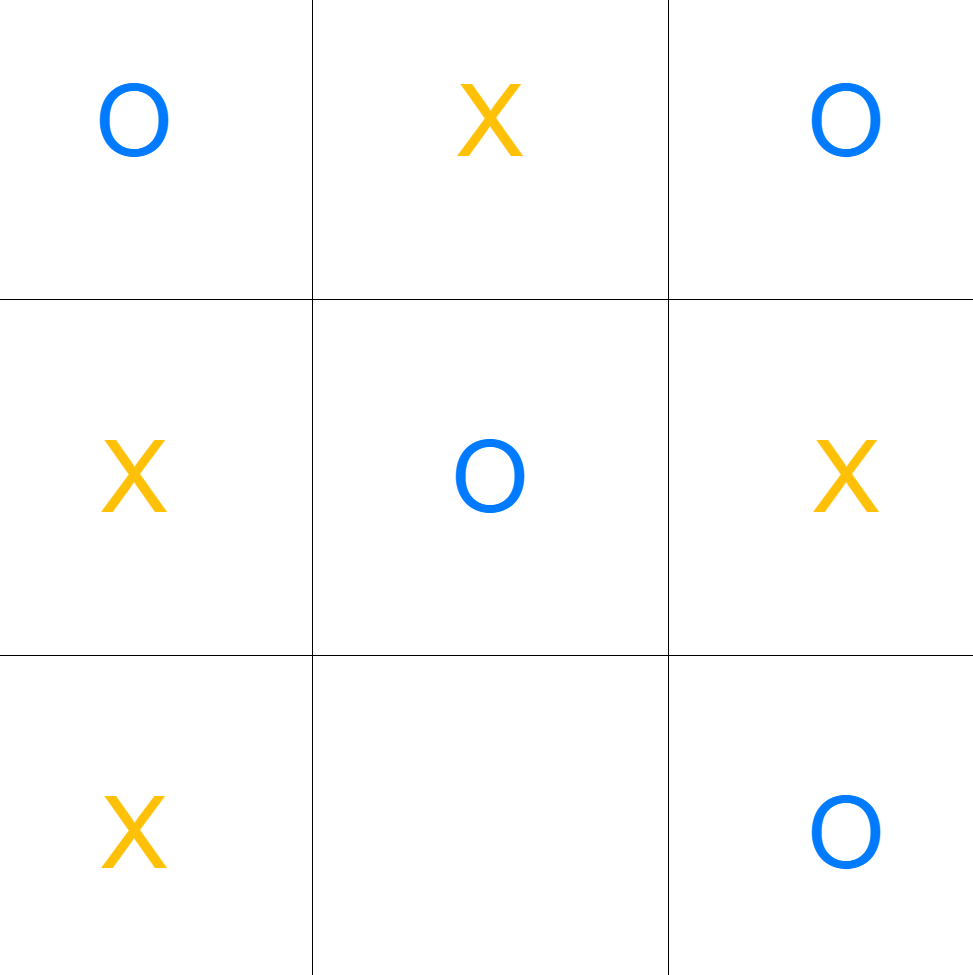
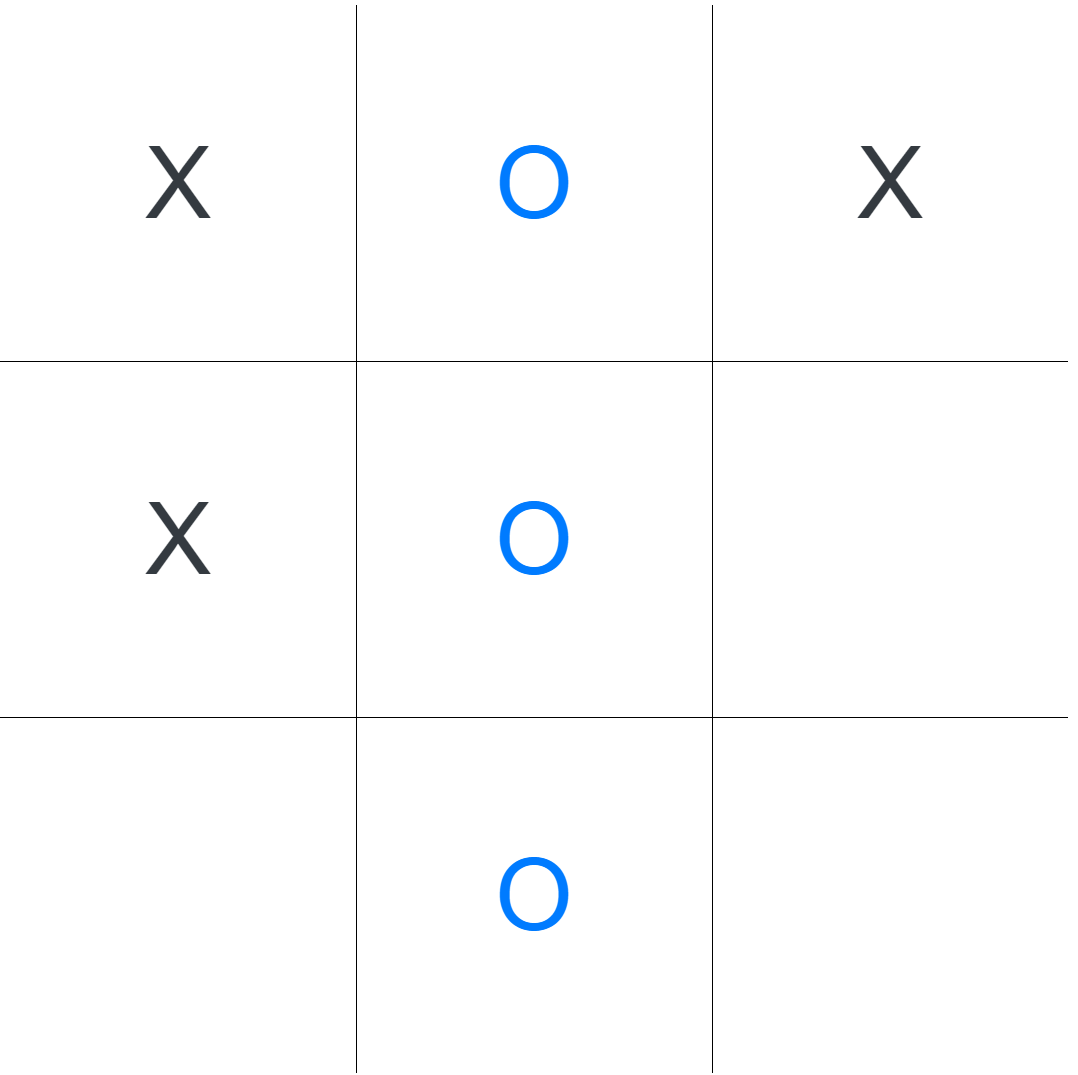
titles

diff --git a/src/app/games/connect4/connect4.component.ts b/src/app/games/connect4/connect4.component.ts
@@ -1,4 +1,4 @@
-import {AfterViewInit, Component, ElementRef, HostListener, OnDestroy, ViewChild} from '@angular/core';
+import {AfterViewInit, Component, ElementRef, HostListener, OnDestroy, OnInit, ViewChild} from '@angular/core';
 import {ScoreService} from '../../services/score.service';
 import {AuthService} from '../../services/auth.service';
 import * as p5 from 'p5';
@@ -6,21 +6,26 @@ import {Coords} from './PixelCoordsInterface';
 import {Connect4AI} from './Connect4AI';
 import {Connect4Helper} from './Connect4Helper';
 import {NavbarCollapsedService} from '../../services/navbar-collapsed.service';
+import {Title} from '@angular/platform-browser';
 
 @Component({
   selector: 'app-connect4',
   templateUrl: './connect4.component.html',
   styleUrls: ['./connect4.component.css']
 })
-export class Connect4Component implements AfterViewInit, OnDestroy {
+export class Connect4Component implements AfterViewInit, OnDestroy, OnInit {
 
     @ViewChild('connect4Canvas') connect4Canvas: ElementRef;
     public p5;
 
     private gameID = 3;
 
-    constructor(private scoreService: ScoreService, public auth: AuthService, public collapsed: NavbarCollapsedService) {
+    constructor(private scoreService: ScoreService, public auth: AuthService, public collapsed: NavbarCollapsedService, private title: Title) {
         window.onresize = this.onWindowResize;
+    }
+
+    ngOnInit() {
+        this.title.setTitle('LioGames - Connect 4');
     }
 
     ngAfterViewInit() {
@@ -204,7 +209,7 @@ export class Connect4Component implements AfterViewInit, OnDestroy {
                             p.fill('#007bff');
                             p.ellipse(coords.x, coords.y, size, size);
                         } else if(p.grid[i][j] === -1) {
-                            p.fill('#ffc107');
+                            p.fill('#343a40');
                             p.ellipse(coords.x, coords.y, size, size);
                         }
                     }

diff --git a/src/app/games/tictactoe/tictactoe.component.ts b/src/app/games/tictactoe/tictactoe.component.ts
@@ -1,22 +1,27 @@
-import {AfterViewInit, Component, ElementRef, OnDestroy, ViewChild} from '@angular/core';
+import {AfterViewInit, Component, ElementRef, OnDestroy, OnInit, ViewChild} from '@angular/core';
 import * as p5 from 'p5';
 import {NeuralNet} from './NeuralNet';
 import {AuthService} from '../../services/auth.service';
 import {NavbarCollapsedService} from '../../services/navbar-collapsed.service';
+import {Title} from '@angular/platform-browser';
 
 @Component({
   selector: 'app-tictactoe',
   templateUrl: './tictactoe.component.html',
   styleUrls: ['./tictactoe.component.css']
 })
-export class TictactoeComponent implements AfterViewInit, OnDestroy {
+export class TictactoeComponent implements AfterViewInit, OnDestroy, OnInit {
 
     public p5;
 
     private gameID: number = 2;
 
-    constructor(public collapsed: NavbarCollapsedService) {
+    constructor(public collapsed: NavbarCollapsedService, private title: Title) {
         window.onresize = this.onWindowResize;
+    }
+
+    ngOnInit() {
+        this.title.setTitle('LioGames - TicTacToe');
     }
 
     ngAfterViewInit() {
@@ -161,7 +166,7 @@ export class TictactoeComponent implements AfterViewInit, OnDestroy {
                     for (let j = 0; j < p.grid[i].length; j++) {
                         switch (p.grid[i][j]) {
                             case 1:
-                                p.fill('#ffc107');
+                                p.fill('#343a40');
                                 p.text("X", (j+1) * p.width/3 - p.width/6, (i+1) * p.height/3 - p.height/6);
                                 break;
                             case -1:

diff --git a/src/app/games/flappy-bird/flappy-bird.component.ts b/src/app/games/flappy-bird/flappy-bird.component.ts
@@ -1,4 +1,4 @@
-import {AfterViewInit, Component, ElementRef, HostListener, OnDestroy, ViewChild} from '@angular/core';
+import {AfterViewInit, Component, ElementRef, HostListener, OnDestroy, OnInit, ViewChild} from '@angular/core';
 import * as p5 from 'p5';
 import {Player} from './Player';
 import {Pipe} from './Pipe';
@@ -6,22 +6,27 @@ import {ScoreService} from '../../services/score.service';
 import {AuthService} from '../../services/auth.service';
 import {NavbarCollapsedService} from '../../services/navbar-collapsed.service';
 import {P5JsHelpers} from '../../helpers/P5JsHelpers';
+import {Title} from '@angular/platform-browser';
 
 @Component({
   selector: 'app-flappy-bird',
   templateUrl: './flappy-bird.component.html',
   styleUrls: ['./flappy-bird.component.css']
 })
-export class FlappyBirdComponent implements OnDestroy, AfterViewInit {
+export class FlappyBirdComponent implements OnDestroy, AfterViewInit, OnInit {
 
   @ViewChild('flappyBirdCanvas') flappyBirdCanvas: ElementRef;
   public p5;
 
   private gameID = 1;
 
-  constructor(private scoreService: ScoreService, public auth: AuthService, public collapsed: NavbarCollapsedService) {
+  constructor(private scoreService: ScoreService, public auth: AuthService, public collapsed: NavbarCollapsedService, private title: Title) {
       window.onresize = this.onWindowResize;
   }
+
+    ngOnInit() {
+      this.title.setTitle('LioGames - FlappyBird');
+    }
 
     ngAfterViewInit() {
         this.createCanvas();

diff --git a/src/app/games/falling-blocks/falling-blocks.component.ts b/src/app/games/falling-blocks/falling-blocks.component.ts
@@ -6,22 +6,27 @@ import {ScoreService} from '../../services/score.service';
 import {AuthService} from '../../services/auth.service';
 import {P5JsHelpers} from '../../helpers/P5JsHelpers';
 import {NavbarCollapsedService} from '../../services/navbar-collapsed.service';
+import {Title} from '@angular/platform-browser';
 
 @Component({
   selector: 'app-falling-blocks',
   templateUrl: './falling-blocks.component.html',
   styleUrls: ['./falling-blocks.component.css']
 })
-export class FallingBlocksComponent implements OnDestroy, AfterViewInit {
+export class FallingBlocksComponent implements OnDestroy, AfterViewInit, OnInit {
 
   @ViewChild("fallingBlockCanvas") fallingBlockCanvas: ElementRef;
   public p5;
 
   private gameID: number = 0;
 
-  constructor(private scoreService: ScoreService, public auth: AuthService, public collapsed: NavbarCollapsedService) {
+  constructor(private scoreService: ScoreService, public auth: AuthService, public collapsed: NavbarCollapsedService, private title: Title) {
       window.onresize = this.onWindowResize;
       document.onvisibilitychange = this.onVisibilityChange;
+  }
+
+  ngOnInit() {
+      this.title.setTitle('LioGames - FallingBlocks');
   }
 
   ngOnDestroy() {

diff --git a/src/app/user/user-detail/user-detail.component.ts b/src/app/user/user-detail/user-detail.component.ts
@@ -3,6 +3,7 @@ import {ActivatedRoute, Router} from '@angular/router';
 import {AuthService} from '../../services/auth.service';
 import {Observable} from 'rxjs';
 import {UserInfo} from '../../interfaces/interfaces';
+import {Title} from '@angular/platform-browser';
 
 @Component({
   selector: 'app-user-detail',
@@ -14,11 +15,12 @@ export class UserDetailComponent implements OnInit {
   username: string;
   userInfo: Observable<UserInfo>;
 
-  constructor(private route: ActivatedRoute, private auth: AuthService, private router: Router) {}
+  constructor(private route: ActivatedRoute, private auth: AuthService, private router: Router, private title: Title) {}
 
   ngOnInit() {
       this.route.params.subscribe(params => {
           this.username = params['username'];
+          this.title.setTitle('LioGames - ' + this.username);
           this.auth.isUsernameAvailable(this.username).subscribe(userAva => {
               if(userAva['available'] == '0') {
                   this.userInfo = this.auth.getUserInfo(this.username);

diff --git a/src/app/user/manage-account/manage-account.component.ts b/src/app/user/manage-account/manage-account.component.ts
@@ -4,6 +4,7 @@ import { FormControl, FormGroup, Validators} from '@angular/forms';
 import {FileValidator, PasswordValidator, UsernameValidator} from '../../helpers/FormValidators';
 import {NgbModal} from '@ng-bootstrap/ng-bootstrap';
 import {DeleteUserModalComponent} from '../delete-user-modal/delete-user-modal.component';
+import {Title} from '@angular/platform-browser';
 
 @Component({
   selector: 'app-manage-account',
@@ -27,10 +28,11 @@ export class ManageAccountComponent implements OnInit {
 
   private file: any;
 
-  constructor(public auth: AuthService, private modalService: NgbModal) {
+  constructor(public auth: AuthService, private modalService: NgbModal, private title: Title) {
   }
 
   ngOnInit() {
+      this.title.setTitle('LioGames - Manage Account');
       this.changeUsernameForm = new FormGroup({
           newUsername: new FormControl('', [Validators.required, Validators.minLength(3)], new UsernameValidator(this.auth).usernameAvailable)
       });

diff --git a/src/app/user/register-form/register-form.component.ts b/src/app/user/register-form/register-form.component.ts
@@ -2,6 +2,7 @@ import {Component, OnInit} from '@angular/core';
 import {AuthService} from '../../services/auth.service';
 import {PasswordValidator, UsernameValidator} from '../../helpers/FormValidators';
 import {FormControl, FormGroup, Validators} from '@angular/forms';
+import {Title} from '@angular/platform-browser';
 
 @Component({
   selector: 'app-register-form',
@@ -13,9 +14,10 @@ export class RegisterFormComponent implements OnInit {
   loginForm: FormGroup;
   submitted = false;
 
-  constructor(public auth: AuthService) { }
+  constructor(public auth: AuthService, private title: Title) { }
 
   ngOnInit() {
+      this.title.setTitle('LioGames - Register');
       this.loginForm = new FormGroup({
           username: new FormControl('', [Validators.required, Validators.minLength(3)], new UsernameValidator(this.auth).usernameAvailable),
           password: new FormControl('', Validators.required),

diff --git a/src/app/games/connect4/connect4.component.html b/src/app/games/connect4/connect4.component.html
@@ -3,7 +3,7 @@
   <div id="connect4-canvas" #connect4Canvas></div>
   <button *ngIf="gameNotRunning()" (click)="startGame()" class="btn btn-success" [ngClass]="{'startButtonCol' : collapsed.isCollapsed, 'startButtonOpen' : !collapsed.isCollapsed}">Start</button>
   <div *ngIf="gameNotRunning() || gameEnded()" class="bg-info p-3 text-center rounded" [ngClass]="{'infoTextCol' : collapsed.isCollapsed, 'infoTextOpen' : !collapsed.isCollapsed}">
-    <h5>You are playing against a AI, the AI is yellow, you are blue. To set a stone click on the column you want to set on. Who starts is chosen randomly.</h5>
+    <h5>You are playing against a AI, the AI is grey, you are blue. To set a stone click on the column you want to set on. Who starts is chosen randomly.</h5>
   </div>
   <div class="row" *ngIf="gameEnded()">
     <div class="col align-self-center">

diff --git a/src/app/user/login-form/login-form.component.ts b/src/app/user/login-form/login-form.component.ts
@@ -1,6 +1,7 @@
 import {Component, OnInit} from '@angular/core';
 import {AuthService} from '../../services/auth.service';
 import {FormBuilder, FormGroup, Validators} from '@angular/forms';
+import {Title} from '@angular/platform-browser';
 
 @Component({
   selector: 'app-login-form',
@@ -12,9 +13,10 @@ export class LoginFormComponent implements OnInit {
   loginForm: FormGroup;
   submitted = false;
 
-  constructor(public auth: AuthService, private formBuilder: FormBuilder) { }
+  constructor(public auth: AuthService, private formBuilder: FormBuilder, private title: Title) { }
 
   ngOnInit() {
+      this.title.setTitle('LioGames - Login');
       this.loginForm = this.formBuilder.group({
           username: ['', Validators.required],
           password: ['', Validators.required]

diff --git a/src/app/scores/highscores/highscores.component.ts b/src/app/scores/highscores/highscores.component.ts
@@ -1,4 +1,5 @@
 import { Component, OnInit } from '@angular/core';
+import {Title} from '@angular/platform-browser';
 
 @Component({
   selector: 'app-highscores',
@@ -7,9 +8,10 @@ import { Component, OnInit } from '@angular/core';
 })
 export class HighscoresComponent implements OnInit {
 
-  constructor() { }
+  constructor(private title: Title) { }
 
   ngOnInit() {
+      this.title.setTitle('LioGames - Highscores');
   }
 
 }

diff --git a/src/app/dashboard/dashboard.component.ts b/src/app/dashboard/dashboard.component.ts
@@ -1,4 +1,5 @@
 import { Component, OnInit } from '@angular/core';
+import {Title} from '@angular/platform-browser';
 
 @Component({
   selector: 'app-app-dashboard',
@@ -7,9 +8,10 @@ import { Component, OnInit } from '@angular/core';
 })
 export class DashboardComponent implements OnInit {
 
-  constructor() { }
+  constructor(private title: Title) { }
 
   ngOnInit() {
+    this.title.setTitle('LioGames');
   }
 
 }

diff --git a/src/app/scores/score-list/score-list.component.ts b/src/app/scores/score-list/score-list.component.ts
@@ -3,6 +3,7 @@ import {ScoreService} from '../../services/score.service';
 import {Router} from '@angular/router';
 import {Observable} from 'rxjs';
 import {GetHighscoresForGame} from '../../interfaces/interfaces';
+import {Title} from '@angular/platform-browser';
 
 @Component({
   selector: 'app-score-list',
